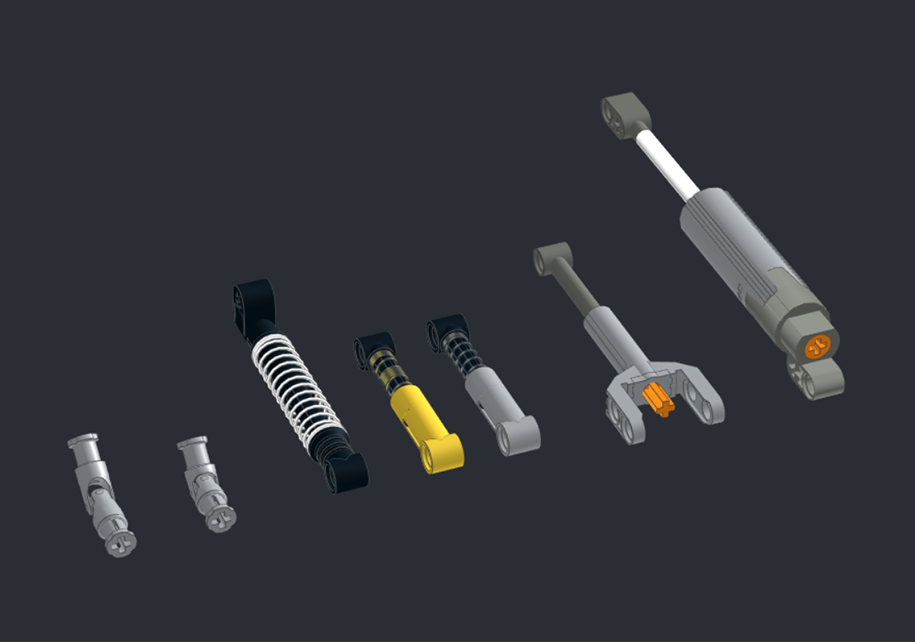
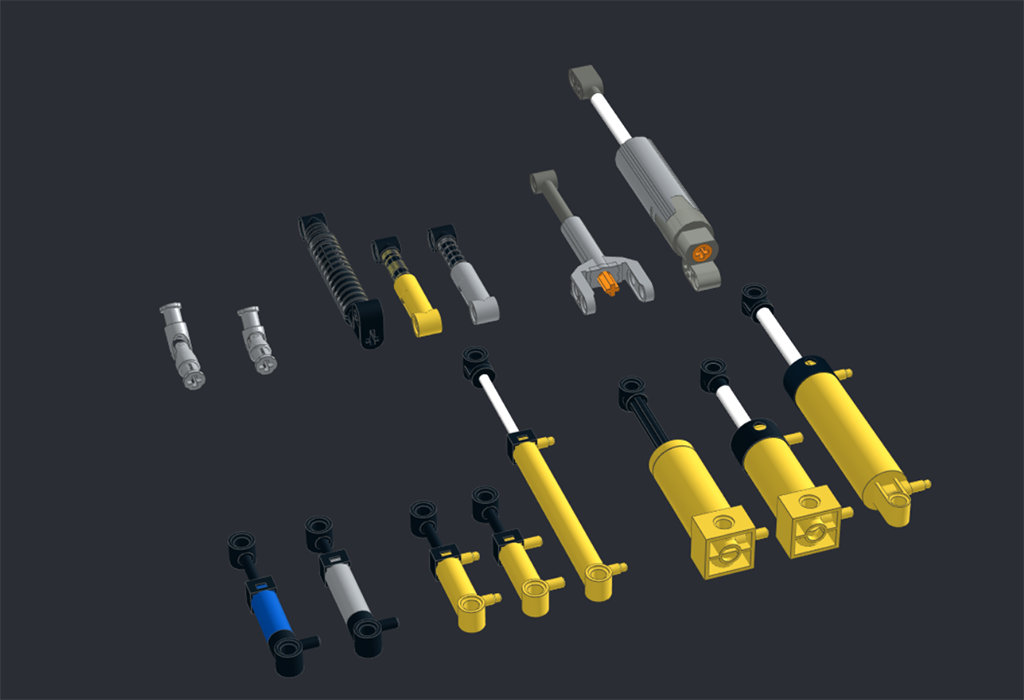
Added pneumatics

diff --git a/README.md b/README.md
@@ -18,6 +18,7 @@ Some of the parts will have to be replaced in existing builds for it to work. Th
 - 61927c01 - Technic Linear Actuator with Dark Bluish Gray Ends
 - 92693c01 - Technic Linear Actuator Mini with Dark Bluish Gray Head and Orange Axle
 - 2909c03 - Technic, Shock Absorber 9.5L (Soft Spring)
+- And some of the pneumatic parts
 
 # Feedback:
 Please let me know if there are more parts I should add
